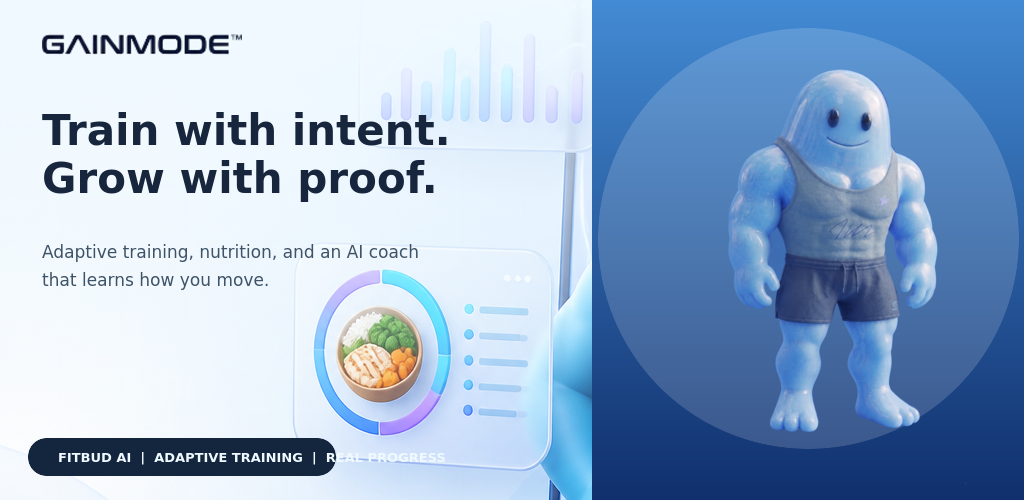
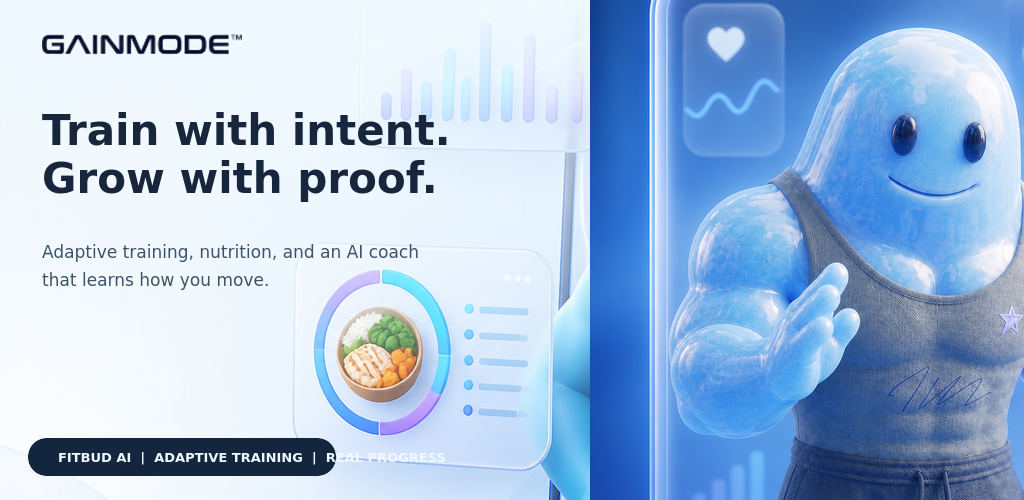
Update agent identity metadata and feature graphics
Replit-Commit-Author: Agent

diff --git a/.agents/memory/forge-fit-coach-identity.md b/.agents/memory/forge-fit-coach-identity.md
@@ -3,8 +3,8 @@ name: FitBud coach identity
 description: Canonical visual identity and variation rule for FitBud coach artwork
 ---
 
-The user-selected translucent sky-blue mascot is the canonical FitBud coach across the mobile app and GainMode website. New coach artwork may change pose, gesture, crop, or scene, but must preserve the same face, body proportions, translucent blue material, and gray athletic outfit.
+The user-selected translucent sky-blue mascot is a reference for requested marketing artwork, but feature-graphic experiments must stay separate from the in-app coach assets unless the user explicitly authorizes an app-wide replacement. When authorized, new coach artwork may change pose, gesture, crop, or scene, but must preserve the same face, body proportions, translucent blue material, and gray athletic outfit.
 
-**Why:** Consistent character identity makes the coach recognizable across onboarding, chat, navigation, marketing, and motion states.
+**Why:** The user wants the feature graphic customized around the mascot without changing the existing in-app coach profile or motion visuals.
 
-**How to apply:** Start pose variants from the canonical reference image and review the result for face, body, clothing, and color consistency before replacing coach assets.
+**How to apply:** Keep campaign assets in generated-assets paths. Do not overwrite mobile or website coach imports during feature-graphic work; only replace those assets after an explicit request.
